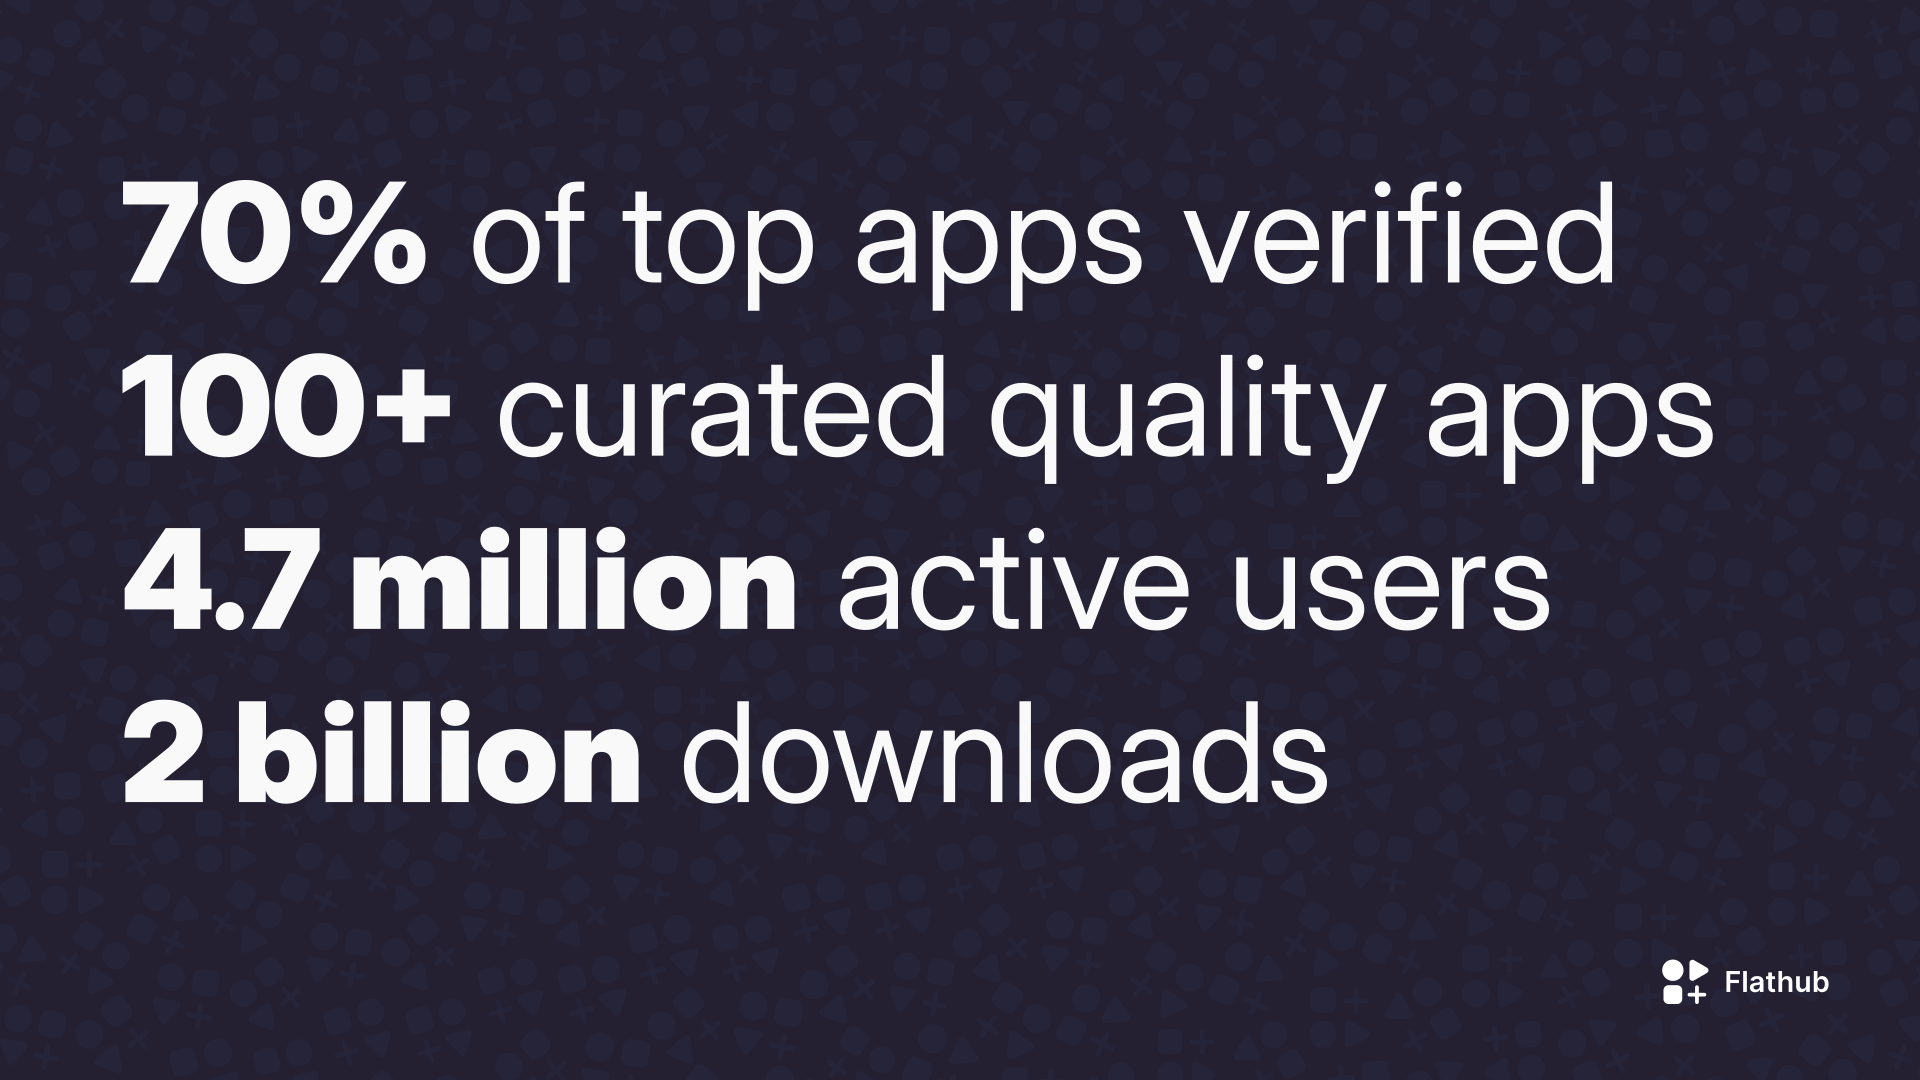
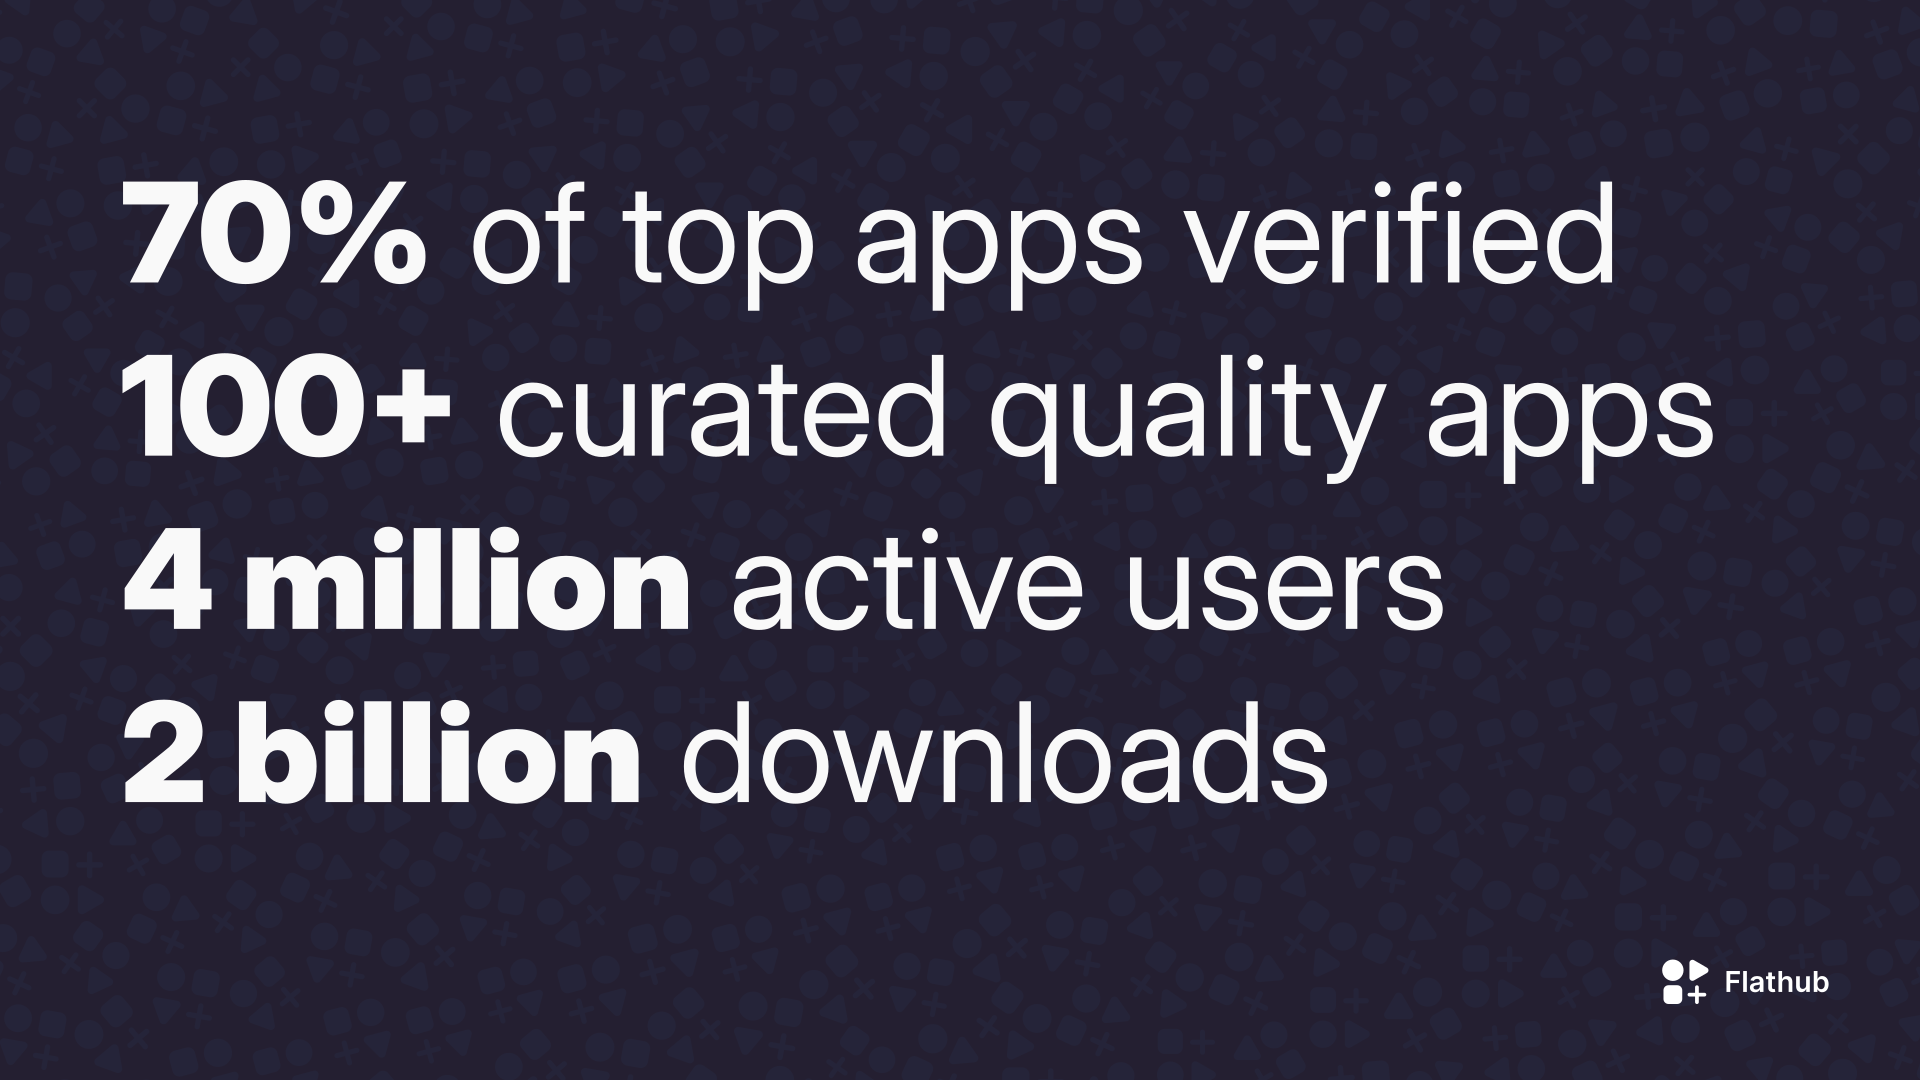
blog: more conservative active users

Changed region(s): [[0.0938, 0.4889, 0.8125, 0.5806]]

diff --git a/blog/2024-08-13/index.md b/blog/2024-08-13/index.md
@@ -14,7 +14,7 @@ At the beginning of the year we announced an incredible milestone for Flathub: [
 
 ## Milestones
 
-![Flathub: 70% of top apps verified, 100+ curated quality apps, 4.7 million active users, 2 billion downloads](milestones.png)
+![Flathub: 70% of top apps verified, 100+ curated quality apps, 4 million active users, 2 billion downloads](milestones.png)
 
 We're back with some new milestones thanks to the continued growth of Flathub as an app store and the incredible work of both our largely volunteer team and our growing app developer community:
 
@@ -30,9 +30,9 @@ This means that between late February and July, the developers of over 100 apps 
 
 Developers, if you'd like to see your app featured on the home page, please ensure you are following these guidelines! We've [heard from app developers](https://fosstodon.org/@bragefuglseth/112430463664651417) that getting your app featured not only gives a bump in downloads, but can also bring an increase in contributions to your project if it's open source.
 
-### 4.7 million active users
+### 4 million active users
 
-Six months ago we passed one million active users based on a simple if conservative estimate of updates to a common runtime version we had served. Using that same methodology, we now estimate we have over 4.7 million active users!
+Six months ago we passed one million active users based on a simple if conservative estimate of updates to a common runtime version we had served. Using that same methodology, we now estimate we have over 4 million active users!
 
 As a reminder, this data is publicly available and anyone can check our work. In fact, I personally would love if we could work with a volunteer from the community to automate this statistic so we don't have to do manual collation each time. If you're interested, check out [this GitHub issue](https://github.com/flathub-infra/website/issues/2945).
 
